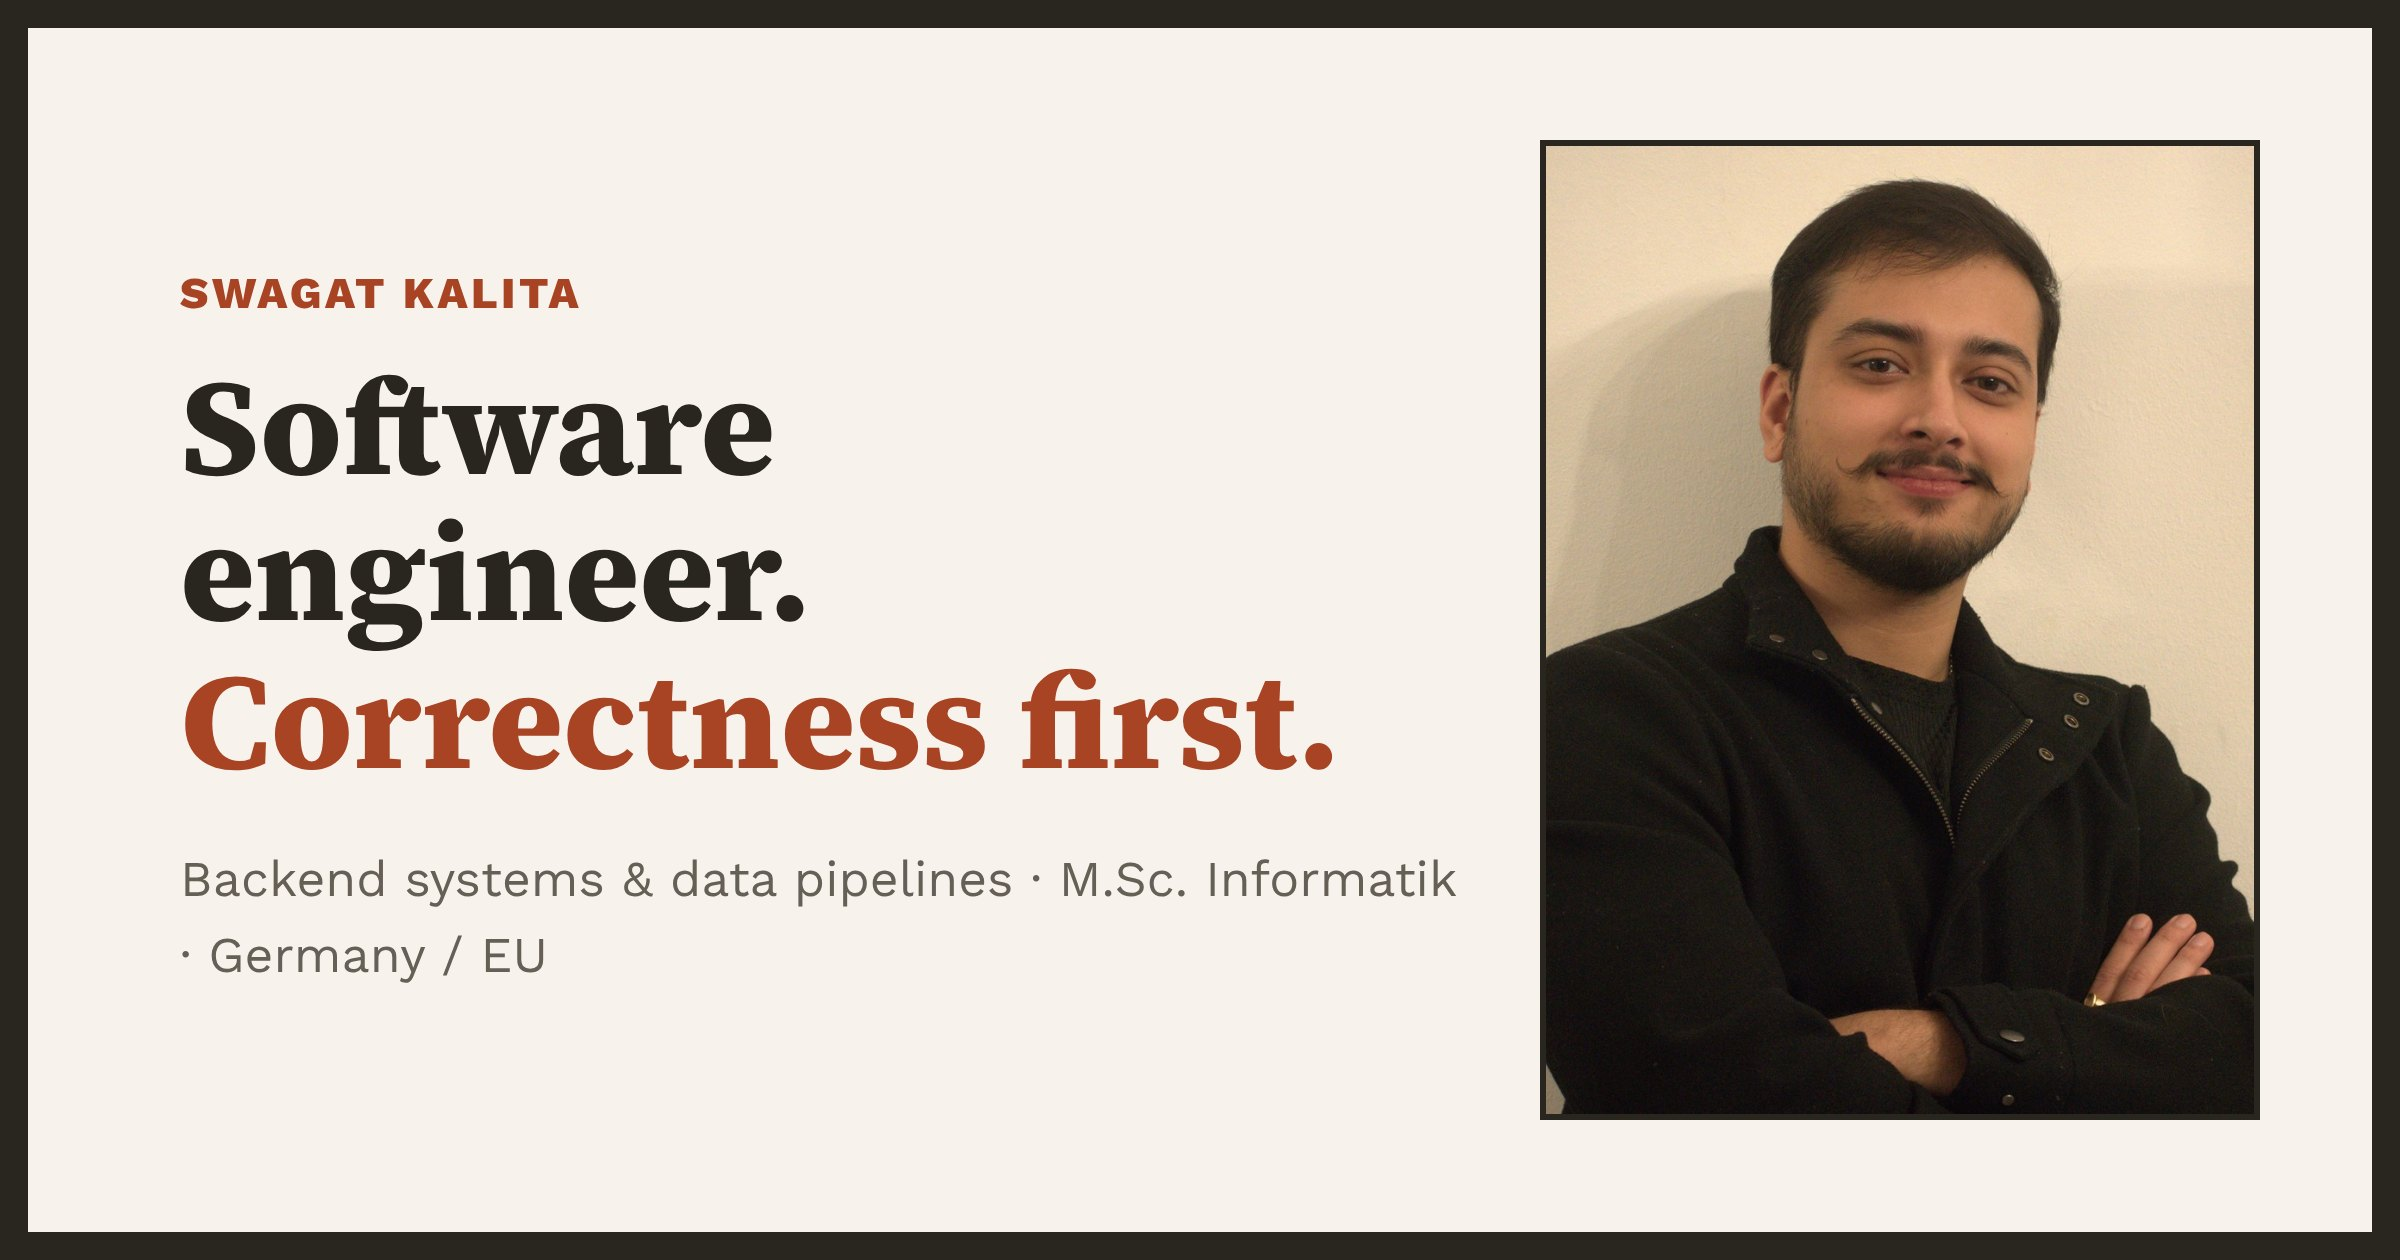
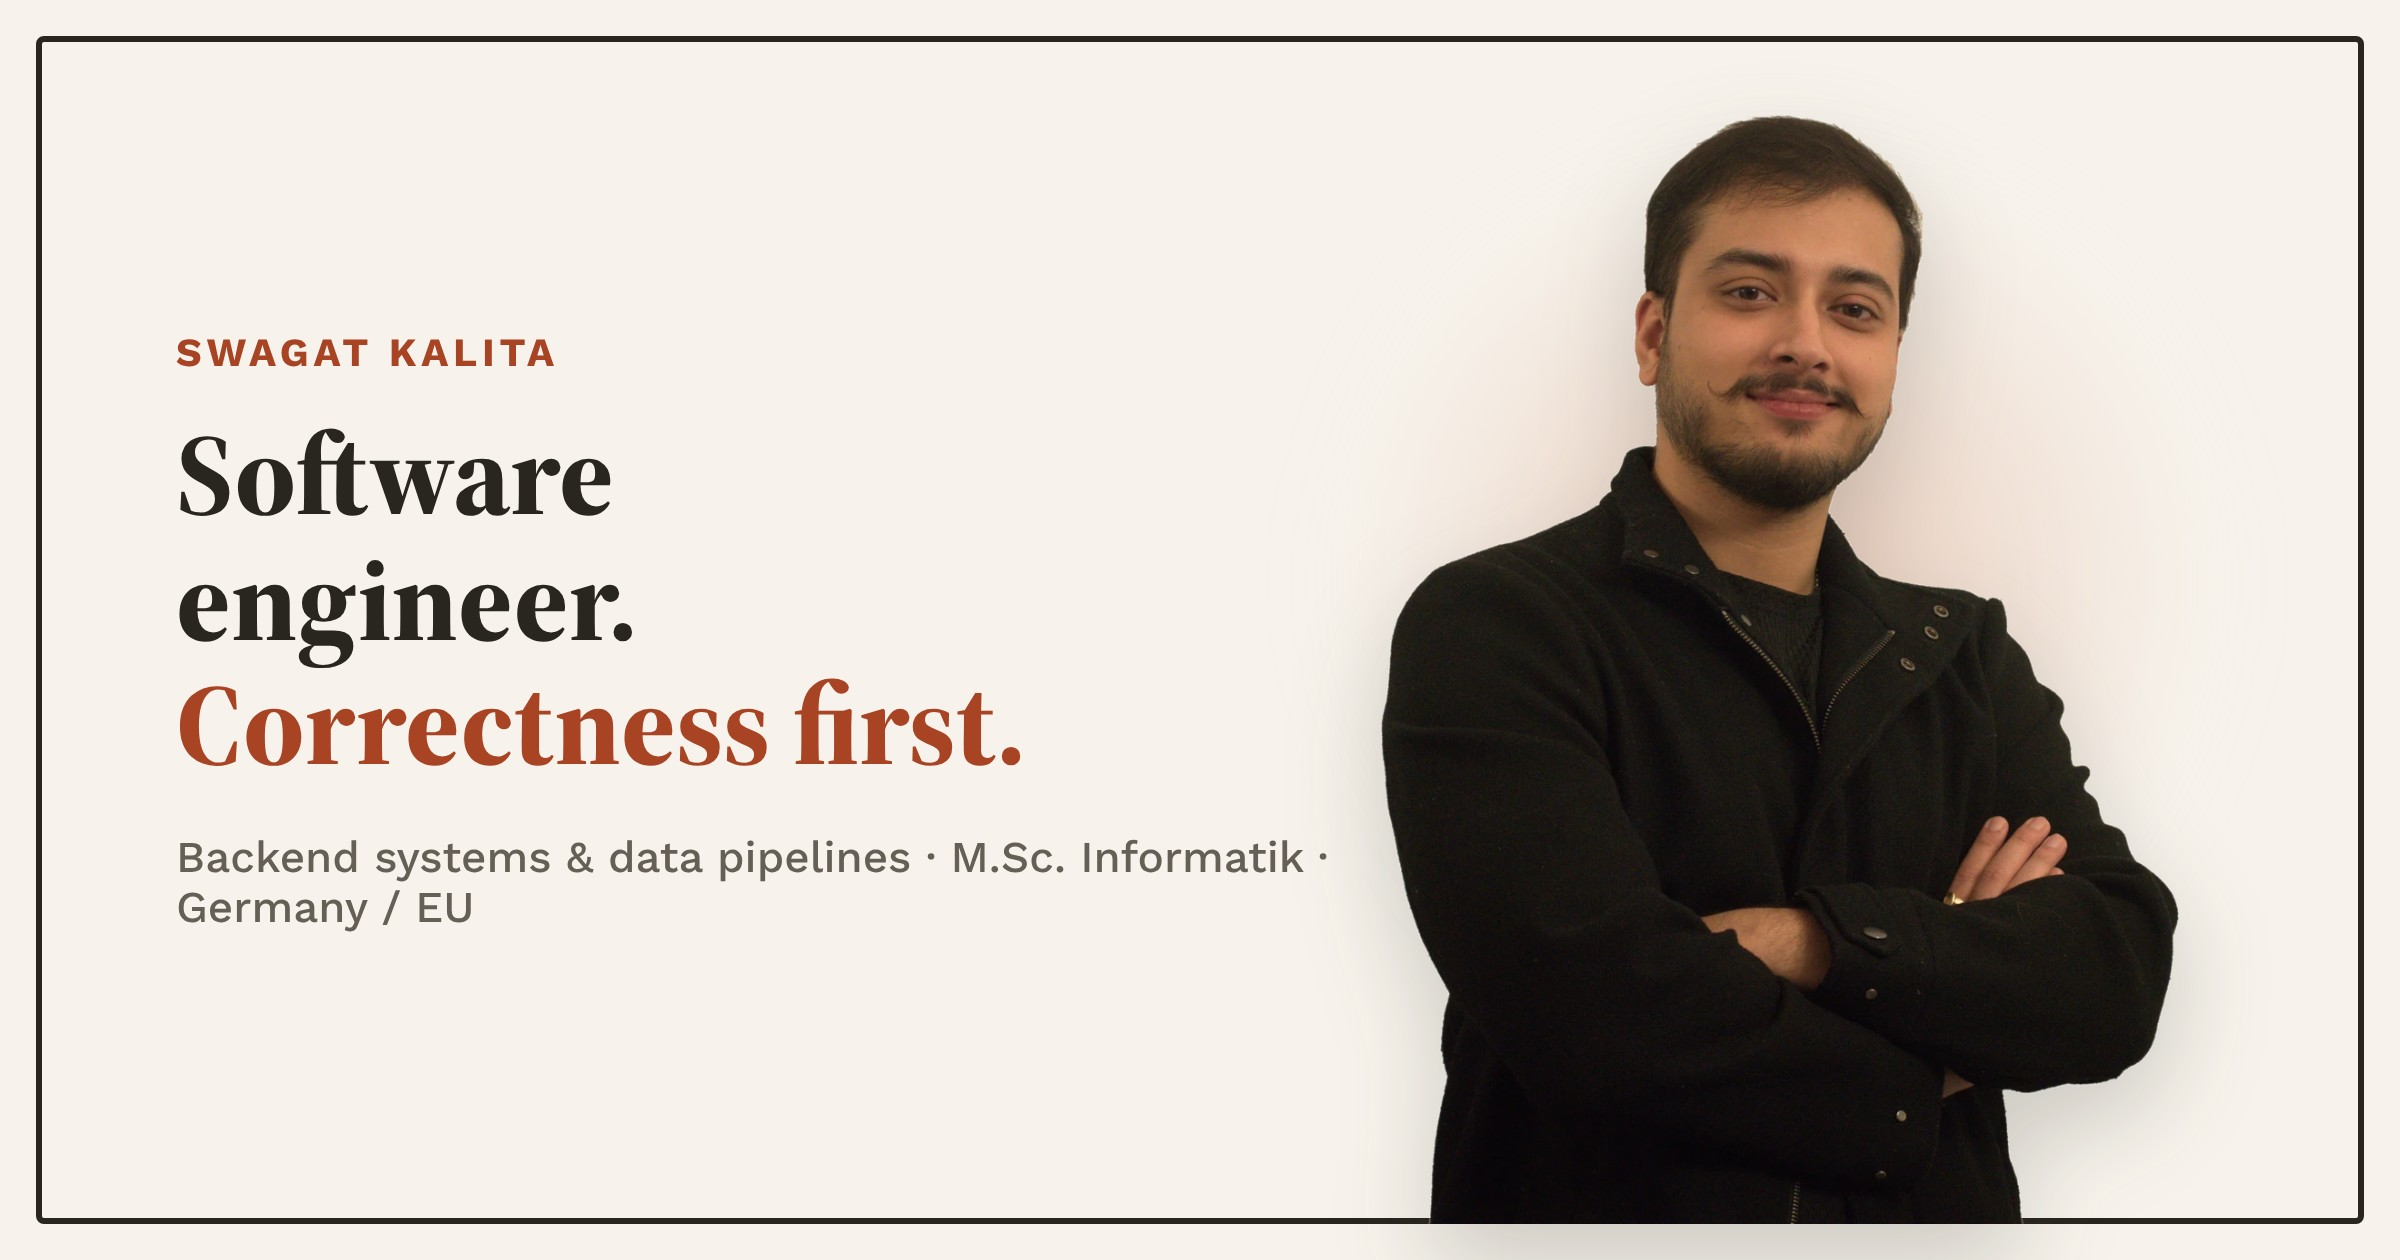
Redesign hero with new photo, glow, and fact cards; drop ClearScan user counts; regen OG image

diff --git a/css/styles.css b/css/styles.css
@@ -245,20 +245,78 @@ a:focus-visible { outline: 2px solid var(--accent); outline-offset: 3px; border-
 .hero-links a.secondary:hover { color: var(--ink); border-color: var(--border); }
 
 .hero-photo {
+  position: relative;
   width: 100%;
-  aspect-ratio: 4 / 4.8;
+  max-width: 340px;
+  margin: 0 0 0 auto;
+}
+.hero-photo::before {
+  content: '';
+  position: absolute;
+  inset: -16% -26% -10%;
+  z-index: 0;
+  background: radial-gradient(ellipse at 50% 42%, var(--accent-soft) 0%, rgba(232, 201, 184, 0) 72%);
+  filter: blur(36px);
+  opacity: 0.9;
 }
 .hero-photo img {
+  position: relative;
+  z-index: 1;
   width: 100%;
-  height: 100%;
-  object-fit: cover;
-  object-position: top center;
+  height: auto;
+  display: block;
+  filter: drop-shadow(0 22px 26px rgba(41, 38, 32, 0.18));
+}
+
+.hero-fact {
+  position: absolute;
+  z-index: 2;
+  background: var(--bg);
+  border: 1px solid var(--border);
+  border-radius: var(--radius-md);
+  box-shadow: var(--shadow-sm);
+  line-height: 1.2;
+}
+
+.hero-fact-location {
+  top: 6%;
+  left: -16%;
+  padding: 9px 14px;
+  font-size: 0.78rem;
+  font-weight: 700;
+  color: var(--ink-soft);
+  white-space: nowrap;
+}
+
+.hero-fact-stat {
+  bottom: 10%;
+  right: -16%;
+  display: flex;
+  flex-direction: column;
+  gap: 2px;
+  padding: 12px 18px;
+}
+.hero-fact-stat b {
+  font-family: 'Source Serif 4', serif;
+  font-size: 1.3rem;
+  color: var(--accent);
+}
+.hero-fact-stat span {
+  display: block;
+  max-width: 120px;
+  font-size: 0.64rem;
+  font-weight: 700;
+  text-transform: uppercase;
+  letter-spacing: 0.04em;
+  color: var(--ink-faint);
 }
 
 @media (max-width: 860px) {
   .hero { padding: 36px 0 56px; }
   .hero-grid { grid-template-columns: 1fr; gap: 32px; }
-  .hero-photo { max-width: 320px; margin: 0 auto; order: -1; }
+  .hero-photo { max-width: 260px; margin: 0 auto; order: -1; }
+  .hero-fact-location { left: -4%; top: -8%; }
+  .hero-fact-stat { right: -4%; bottom: -10%; }
 }
 
 /* ---------- Sections (general) ---------- */

diff --git a/cv.html b/cv.html
@@ -84,7 +84,7 @@
             <div class="cv-entry-head"><span>Software Engineer, ClearScan (independent product)</span><span>Apr 2026 — Present</span></div>
             <div class="cv-entry-sub"><span><a href="https://clearscan.fyi" target="_blank" rel="noopener">clearscan.fyi</a> — live resume-scoring and job-matching platform</span><span>Remote</span></div>
             <ul>
-              <li>Built and run ClearScan end to end: React frontend, FastAPI backend, Supabase Auth and PostgreSQL with Row Level Security. Over 1000 scans run and 100+ registered users since launch.</li>
+              <li>Built and run ClearScan end to end: React frontend, FastAPI backend, Supabase Auth and PostgreSQL with Row Level Security. Over 1000 scans run since launch.</li>
               <li>Wrote a deterministic scoring engine (scikit-learn TF-IDF, 137-skill taxonomy, 62 O*NET profiles, calibration curve). Anthropic is used for two paid features: bullet rewrites and cover letters.</li>
               <li>Added Stripe Checkout, idempotent signed webhooks (nine event types) and a database trigger that blocks users from editing their own billing columns.</li>
               <li>Deployed on Railway and Netlify; 238 tests in GitHub Actions. Known limits are in the public <a href="https://github.com/swagatskalita092/clearscan-engineering" target="_blank" rel="noopener">engineering dossier</a>.</li>

diff --git a/work.html b/work.html
@@ -55,7 +55,6 @@
         <p>ClearScan is a real, live resume-scoring and job-matching platform, not a portfolio demo. I built and run it end to end. The scoring engine is deterministic: scikit-learn TF-IDF over a 137-skill taxonomy and 62 O*NET job profiles, with a hand-set calibration curve so the same input scores the same way every time. It runs on Supabase Auth and PostgreSQL with row-level security, and Stripe Checkout handles payments with signed, idempotent webhooks across nine event types. Two AI-assisted features, bullet rewrites and cover letters, sit behind the paywall.</p>
         <div class="stat-row">
           <div class="stat"><b>1000+</b><span>Scans run</span></div>
-          <div class="stat"><b>100+</b><span>Registered users</span></div>
           <div class="stat"><b>238</b><span>Automated tests (215 backend, 23 frontend)</span></div>
           <div class="stat"><b>500+</b><span>Commits on main</span></div>
         </div>

diff --git a/index.html b/index.html
@@ -51,7 +51,9 @@
         </div>
       </div>
       <div class="hero-photo">
-        <img src="assets/portrait.jpg" alt="Swagat Kalita" width="900" height="1125">
+        <img src="assets/portrait.webp" alt="Swagat Kalita">
+        <div class="hero-fact hero-fact-location">📍 Passau, Germany</div>
+        <div class="hero-fact hero-fact-stat"><b>4</b><span>shipped projects, chaos-tested</span></div>
       </div>
     </div>
   </header>
@@ -77,7 +79,6 @@
           <aside class="ep-evidence">
             <span class="ep-evidence-label">Live product</span>
             <ul>
-              <li>100+ registered users</li>
               <li>1000+ scans run</li>
               <li>238 tests, CI/CD</li>
             </ul>

diff --git a/about.html b/about.html
@@ -47,7 +47,7 @@
 
       <div class="reveal">
         <div class="portrait-frame" style="width:100%; height:auto; aspect-ratio:4/5;">
-          <img src="assets/portrait.jpg" alt="Portrait of Swagat Kalita" width="900" height="1125">
+          <img src="assets/portrait.webp" alt="Portrait of Swagat Kalita">
         </div>
       </div>
 
